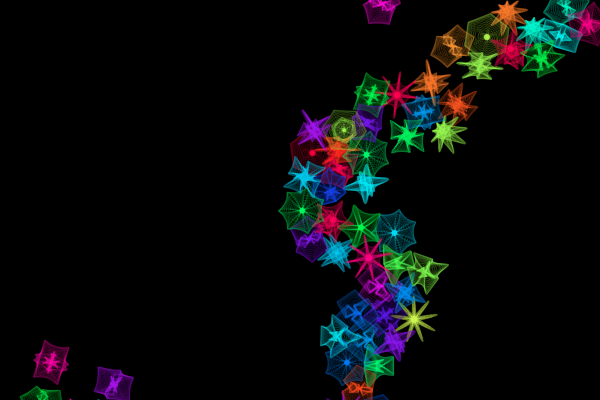
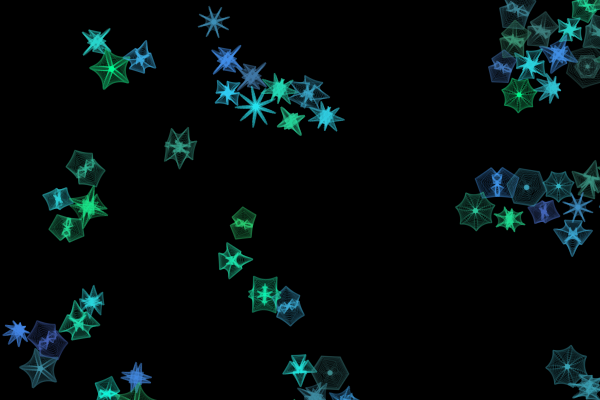
update

diff --git a/sketches/flockcreatures/boid.js b/sketches/flockcreatures/boid.js
@@ -1,7 +1,7 @@
 /* p5.js (https://p5js.org/)
  * Under Creative Commons License
  * https://creativecommons.org/licenses/by-sa/4.0/
- * Written by Juan Carlos Ponce Campuzano, 12-Dec-2018
+ * Written by Juan Carlos Ponce Campuzano, 15-Dec-2018
  */
 
 // Original code:
@@ -14,15 +14,15 @@ class Boid {
     constructor() {
         this.position = createVector(random(2*width/5, 3*width/5), random(2*height/5, 3*height/5));
         this.velocity = p5.Vector.random2D();
-        this.velocity.setMag(random(1, 3));
+        this.velocity.setMag(random(1, 2.5));
         this.acceleration = createVector();
         this.maxForce = 0.2;
         this.maxSpeed = 2;
         this.sz = random(8, 12);
-        this.n = Math.round(random(4, 9));
         this.a = Math.round(random(4, 9));
         this.b = Math.round(random(4, 9));
-        this.h = random(360);
+        this.g = random(100, 255);
+        this.blue = random(180,255);
     }
     
     edges() {
@@ -39,7 +39,7 @@ class Boid {
     }
     
     align(boids) {
-        let perceptionRadius = 30;
+        let perceptionRadius = 40;
         let perceptionCount = 5;
         let steering = createVector();
         let total = 0;
@@ -57,7 +57,7 @@ class Boid {
     }
     
     separation(boids) {
-        let perceptionRadius = 30;
+        let perceptionRadius = 40;
         let perceptionCount = 5;
         let steering = createVector();
         let total = 0;
@@ -79,7 +79,7 @@ class Boid {
     }
     
     cohesion(boids) {
-        let perceptionRadius = 50;
+        let perceptionRadius = 60;
         let perceptionCount = 5;
         let steering = createVector();
         let total = 0;
@@ -120,7 +120,7 @@ class Boid {
     
     show() {
         let theta = this.velocity.heading() + PI / 2;
-        stroke(this.h, 98, 98);
+        stroke(70, this.g, this.blue);
         strokeWeight(0.13);
         noFill();
         push();

diff --git a/sketches/flockcreatures/main.js b/sketches/flockcreatures/main.js
@@ -1,7 +1,7 @@
 /* p5.js (https://p5js.org/)
  * Under Creative Commons License
  * https://creativecommons.org/licenses/by-sa/4.0/
- * Written by Juan Carlos Ponce Campuzano, 12-Dec-2018
+ * Written by Juan Carlos Ponce Campuzano, 15-Dec-2018
  */
 
 // Original code:
@@ -16,8 +16,7 @@ let Controls = function() {
     this.align = 1.5;
     this.cohesion = 1;
     this.separation = 2;
-    //this.trace = false;
-    this.numPoly = 50;
+    this.numPoly = 60;
 };
 
 let controls = new Controls();
@@ -26,16 +25,16 @@ let quadTree;
 
 function setup() {
     createCanvas(windowWidth, windowHeight);
-    colorMode(HSB, 360, 100, 100, 300);
+    //colorMode(HSB, 360, 100, 100, 300);
     
     quadTree = new QuadTree(Infinity, 30, new Rect(0, 0, width, height));
     
     // create gui (dat.gui)
     let gui = new dat.GUI({width: 295});
     gui.close();
-    gui.add(controls, 'align', 0, 3).name("Alignment").step(0.1);
-    gui.add(controls, 'cohesion', 0, 3).name("Cohesion").step(0.1);
-    gui.add(controls, 'separation', 0, 3).name("Separation").step(0.1);
+    gui.add(controls, 'align', 0, 4).name("Alignment").step(0.1);
+    gui.add(controls, 'cohesion', 0, 4).name("Cohesion").step(0.1);
+    gui.add(controls, 'separation', 0, 4).name("Separation").step(0.1);
     gui.add(controls, 'numPoly', 0, 100).name("Num Creatures").step(1);
     //gui.add(controls, 'trace').name("Trace").listen();
     gui.add(this, 'sourceCode').name("Source Code");
